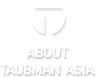
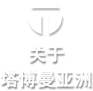
initial chinese version

diff --git a/src/js/view/main-view/info-module/InfoDetail.js b/src/js/view/main-view/info-module/InfoDetail.js
@@ -8,56 +8,56 @@ var InfoDetail = module.exports = React.createClass({
 
             <div className = "contentPages">
                 <div className="content opening" id="detailContent0">
-                    <h1 className="title">China set to become{n}the world's number 1{n}retail market by 2018</h1>
+                    <h1 className="title">到2018年，{n}中国势必成为世界第一{n}大零售市场</h1>
                     <img src="./build/images/content-opening-inline.png" />
-                    <p>This infographic highlights the sheer size and potential of China's retail market. It focuses on changing demographics and rising spending power, as well as the growth in online commerce and lightspeed development of new malls. Dive into the key facts and figures on the world’s hottest retail market.</p>
-                    <p>CLICK on each of the icons on the map to explore the key market drivers in depth.</p>
+                    <p>左边的信息图表突显了中国零售市场的庞大规模和潜力。它主要显示不断变化的人口特征和日益上升的消费能力，以及网络商务的增长和新购物中心的急速发展。审视这一世界上最炙手可热的零售市场的重要事实和数据。</p>
+                    <p>点击地图上的各个信息图，深入探讨主要的市场推动因素。</p>
                 </div>
 
                 <div className="content retail" id="detailContent1">
-                    <h1 className="title">Retail Industry</h1>
+                    <h1 className="title">零售业</h1>
                     <hr></hr>
                     <div className="box">
-                        <h3>World's Retail Leader by 2018</h3>
-                        <p>In 2013, China surpassed Japan to become the world's second largest consumer market. It is expected to take the top spot as the world's largest retail market by 2018, according to PWC. Retail sales volume growth will hit 7.9% by 2018, compared with 2.6% for North America and the global average of 3.4%.  </p>
+                        <h3>2018年世界零售业翘楚</h3>
+                        <p>2013年，中国超越日本，成为世界第二大零售市场，普华永道(PWC)认为，到2018年，中国料将成为世界最大零售市场。到2018年，中国的零售增长率将高达7.9%，而北美则为2.6%，全球平均值为3.4%。</p>
                     </div>
                     <div className="box">
-                        <h3>China: the Top Retail Investment Destination</h3>
-                        <p>AT Kearney has ranked China first in the Global Retail Development Index (GRDI) for the first time since 2010. China's retail market is expected to grow to RMB 51.2 trillion by 2022 — double the size of the US market. The index ranks markets for retail investment potential.</p>
+                        <h3>中国：首要零售投资目的地</h3>
+                        <p>自2010年以来，科尔尼(AT Kearney)首次将中国排在“全球零售发展指数(GRDI)”榜单第一位。到2022年，中国的零售市场预计将增至51.2万亿人民币，是美国市场规模的两倍。该指数排出各市场在零售投资潜力上的名次。</p>
                     </div>
                     <div className="box">
-                        <h3>2015 Global retail development index ranking</h3>
+                        <h3>2015年全球零售发展指数排名</h3>
                         <img src="./build/images/content-retail-inline.png" />
                     </div>
                 </div>
 
                 <div className="content demographics" id="detailContent2">
-                    <h1 className="title">Demographics and Economy</h1>
+                    <h1 className="title">人口特征与经济</h1>
                     <hr></hr>
                     <div className="box">
-                        <h3>Spending below world levels</h3>
-                        <p>China’s consumption levels remain well behind those of other advanced economies, at just 36% of GDP as of 2013. According to McKinsey, by 2020 this figure is set to reach 50%. By comparison, consumer spending accounted for 68% of GDP in the US in 2013 and 61% in Japan.</p>
+                        <h3>消费低于世界水平</h3>
+                        <p>中国的消费水平远远落后于其他先进经济体，截至2013年，消费仅占国内生产总值(GDP)的36%。麦肯锡(McKinsey)认为，到2020年，这一数字势必会达到50%。相比之下，2013年，美国的消费性开支占到GDP的68%，日本占到61%。</p>
                     </div>
                     <div className="box">
-                        <h3>China's Middle Class Boom</h3>
-                        <p>In 2002, a mere 4% of China's mainland urban residents were identified as middle class. By 2022, that figure will rise to 78%. Growth in private consumption will come from a big shift from mass middle class to upper middle class, according to McKinsey.</p>
+                        <h3>中国中产阶级迅速崛起</h3>
+                        <p>2002年，仅有4%的中国大陆城镇居民被归入中产阶级。到2022年，这一数字将上升至78%。麦肯锡认为，私人消费的增长将发生一次大转移，从普通中产阶级转向上层中产阶级。</p>
                     </div>
                     <div className="box">
-                        <h3>China’s Wealth Distribution</h3>
+                        <h3>中国的财富分布</h3>
                         <img src="./build/images/content-demographics-inline.png" />
                     </div>
                 </div>
 
                 <div className="content ecommerce" id="detailContent3">
-                    <h1 className="title">E-Commerce</h1>
+                    <h1 className="title">电子商务</h1>
                     <hr></hr>
                     <div className="box">
-                        <h3>ONLINE RETAIL BOOM</h3>
-                        <p>China's e-commerce industry is already the largest in the world, according to Forrester research. Estimates for China’s online sales in 2014 have totaled RMB 2.8 trillion, while total for the US in 2014 is estimated at USD 304 billion (RMB 1.9 trillion). The question is how this e-commerce explosion will threaten or supplement traditional retail.</p>
+                        <h3>网络零售方兴未艾</h3>
+                        <p>根据弗雷斯特研究公司(Forrester Research)的数据，中国电子商务行业已在世界上占据首位。在2014年，中国的网络销售总额估计达到2.8万亿人民币，而美国则为3040亿美元（1.9万亿人民币）。问题在于，电子商务的这种爆炸式迅猛发展会对传统零售业构成什么样的威胁，还是会提供什么样的补足。</p>
                     </div>
                     <div className="box">
-                        <h3>M-Commerce Emerges as a{n}Growing Trend</h3>
-                        <p>According to iResearch, experts predict that by 2018, 62% of online purchases in China will be made on mobile devices. An emphasis on innovation has allowed mainland e-commerce giants to grow their mobile sales at a rate that surpasses their US counterparts, such as Amazon.</p>
+                        <h3>移动电子商务日益成为潮流</h3>
+                        <p>根据艾瑞咨询集团(iResearch)的报告，专家预测，到2018年，中国62%的网络购物将在移动设备上进行。这显示，创新推动了国内电子商务巨头在移动销售上的发展速度，远超亚马逊等美国同行。</p>
                     </div>
                     <div className="box">
                         <h3><img src="./build/images/flag.png"/>China’s online shoppers in context</h3>
@@ -67,18 +67,18 @@ var InfoDetail = module.exports = React.createClass({
 
 
                 <div className="content malls" id="detailContent4">
-                    <h1 className="title">Shopping Malls</h1>
+                    <h1 className="title">购物中心 </h1>
                     <hr></hr>
                     <div className="box">
-                        <h3>Chinese Malls Continue to Grow</h3>
-                        <p>As China's retail consumption has continued to grow, so too have the number of malls in its cities. In the last four years, the number of malls in China has jumped by more than 40%, according to Deloitte.</p>
+                        <h3>中国购物中心继续增长</h3>
+                        <p>随着中国的零售消费持续增长，中国各地城市的购物中心数量也随之增长。根据德勤(Deloitte)的报告，过去四年，中国的购物中心数量已经猛增40%以上。</p>
                     </div>
                     <div className="box">
-                        <h3>China: The Home of New Malls</h3>
-                        <p>The country is home to eight out of the top 10 cities for mall space under construction. The total number of new malls is projected to increase to 4,000 by the end of 2015, according to the China Chain Store Association and professional services firm Deloitte.</p>
+                        <h3>中国：新购物中心的家园</h3>
+                        <p>在全球兴建购物中心面积最多的十大城市中，中国就占了八个。根据中国连锁经营协会和专业服务公司德勤的数据，到2015年末，新购物中心的总数预计将增至4,000家。</p>
                     </div>
                     <div className="box">
-                        <h3>TOP 10 global cities in shopping-center space under construction </h3>
+                        <h3>兴建购物中心面积最多的十大城市</h3>
                         <img src="./build/images/content-mall-inline.png" />
                     </div>
                 </div>

diff --git a/src/js/view/main-view/info-module/InfoButton.js b/src/js/view/main-view/info-module/InfoButton.js
@@ -52,17 +52,17 @@ var InfoButton= module.exports = React.createClass({
                     <div className = "buttonTop">
                         <div className = "center"></div>
                         <img id="button1_img" src="./build/images/buttonicon1.png" />
-                        <span className = "buttonTitle">Retail Industry</span>
+                        <span className = "buttonTitle">零售业</span>
                     </div>
                     <div className = "buttonLine"></div>
                     <div className = "buttonContent">
                         <div className = "center"></div>
-                        <span className = "buttonText"><span className = "boldText">Number 1 tomorrow? {n}</span>China's retail sales were RMB 26 trillion in 2014, second only to the US</span>
+                        <span className = "buttonText"><span className = "boldText">未来最大的市场？{n}</span>中国2014年的零售额为26万亿人民币，位居世界第二，仅次于美国。</span>
                     </div>
                     <div className = "buttonDetail" id="buttonDetail1" onClick={this.handleSubmit.bind(null,1)}>
                         <div className= "buttonDetailContainer">
                             <span className = "center"></span>
-                            <span className="buttonDetailText">more details</span>
+                            <span className="buttonDetailText">更多详情</span>
                         </div>
                     </div>
                 </div>
@@ -72,17 +72,17 @@ var InfoButton= module.exports = React.createClass({
                     <div className = "buttonTop">
                         <div className = "center"></div>
                         <img src="./build/images/buttonicon2.png" />
-                        <span className = "buttonTitle">Demographics {n}and Economy</span>
+                        <span className = "buttonTitle">人口特征与经济</span>
                     </div>
                     <div className = "buttonLine"></div>
                     <div className = "buttonContent">
                         <div className = "center"></div>
-                        <span className = "buttonText"><span className = "boldText">22%:</span> Projected annual spending surge{n}by upper middle class from 2012 to 2022  </span>
+                        <span className = "buttonText">预计2012年至2022年期间，上层中产阶级的年消费将猛增<span className = "boldText">22%:</span></span>
                     </div>
                     <div className = "buttonDetail" id="buttonDetail2" onClick={this.handleSubmit.bind(null,2)}>
                         <div className= "buttonDetailContainer">
                             <span className = "center"></span>
-                            <span className="buttonDetailText">more details</span>
+                            <span className="buttonDetailText">更多详情</span>
                         </div>
                     </div>
                 </div>
@@ -92,17 +92,17 @@ var InfoButton= module.exports = React.createClass({
                     <div className = "buttonTop">
                         <div className = "center"></div>
                         <img src="./build/images/buttonicon3.png" />
-                        <span className = "buttonTitle">E-Commerce</span>
+                        <span className = "buttonTitle">电子商务方兴未艾</span>
                     </div>
                     <div className = "buttonLine"></div>
                     <div className = "buttonContent">
                         <div className = "center"></div>
-                        <span className = "buttonText"><span className = "boldText">RMB 6.4 trillion:</span> Predicted value of{n}China's e-commerce sector by 2019 </span>
+                        <span className = "buttonText"><span className = "boldText">预计到2019年，</span> 中国电子商务产业总值将达到6.4万亿人民币</span>
                     </div>
                     <div className = "buttonDetail" id="buttonDetail3" onClick={this.handleSubmit.bind(null,3)}>
                         <div className= "buttonDetailContainer">
                             <span className = "center"></span>
-                            <span className="buttonDetailText">more details</span>
+                            <span className="buttonDetailText">更多详情</span>
                         </div>
                     </div>
                 </div>
@@ -112,17 +112,17 @@ var InfoButton= module.exports = React.createClass({
                     <div className = "buttonTop">
                         <div className = "center"></div>
                         <img src="./build/images/buttonicon4.png" />
-                        <span className = "buttonTitle">Shopping Malls</span>
+                        <span className = "buttonTitle">购物中心</span>
                     </div>
                     <div className = "buttonLine"></div>
                     <div className = "buttonContent">
                         <div className = "center"></div>
-                        <span className = "buttonText"><span className = "boldText">44%</span> of all global shopping market{n}completions in 2014 were in China </span>
+                        <span className = "buttonText">在2014年建成的全球购物商场中，有<span className = "boldText">44%</span>位于中国</span>
                     </div>
                     <div className = "buttonDetail" id="buttonDetail4" onClick={this.handleSubmit.bind(null,4)}>
                         <div className= "buttonDetailContainer">
                             <span className = "center"></span>
-                            <span className="buttonDetailText">more details</span>
+                            <span className="buttonDetailText">更多详情</span>
                         </div>
                     </div>
                 </div>

diff --git a/src/js/view/main-view/panel-module/panel-info/PanelInfo.js b/src/js/view/main-view/panel-module/panel-info/PanelInfo.js
@@ -32,34 +32,31 @@ var PanelInfo = module.exports = React.createClass({
         return <div className="info">
             <div className="left">
                 <div  className = "info1" >
-                    <h1>China sets pace in{n}mobile payments </h1>
-                    <h3>While PayPal has been around much longer and Apple Pay garners more headlines, the biggest players in mobile payments are in China. Alibaba and Tencent are the dominant providers and the numbers from China today far exceed the US, according to figures from iResearch and Forrester.</h3>
+                    <h1>中国领跑移动支付</h1>
+                    <h3>虽然PayPal问世更早，Apple Pay登上新闻头条的次数更多，但最大的移动支付公司却是在中国。艾瑞咨询(iResearch)和弗雷斯特研究公司(Forrester)的数据表明，阿里巴巴和腾讯是占主导地位的移动支付提供商，中国现在的交易额远超美国。</h3>
                     <div id ="middle"><img src="./build/images/panelinfo.png"/></div>
 
-                    <h2>Drivers for China’s surge:</h2>
+                    <h2>中国移动支付迅猛发展的动力</h2>
                     <ul>
-                        <li><img id="panelicon1" src="./build/images/panelicon1.png" /> <p>China: 1.5 billion mobile phone users in 2014 vs{n}
-                            US: 250 million in 2014</p></li>
-                        <li><img id="panelicon2" src="./build/images/panelinfo2.png" /> <p>Only 10% in China have credit cards vs 70% in the US.{n}
-                            Consumers seek other payment methods to enable{n}
-                            mobile commerce</p></li>
+                        <li><img id="panelicon1" src="./build/images/panelicon1.png" /> <p>中国：2014年手机用户为15亿，而美国：2014年手机用户为2.5亿</p></li>
+                        <li><img id="panelicon2" src="./build/images/panelinfo2.png" /> <p>在中国，拥有信用卡的人仅占10%，美国则占70%。中国消费者依赖其他支付方式来推动移动电子商务</p></li>
                     </ul>
                     <div className="goAliBtn" onClick={this.handleSubmit}><img src="./build/images/goalibtn.png" /></div>
                 </div>
 
                 <div className = "info2">
-                    <h1>Alipay  vs  Tenpay{n}vs  PayPal</h1>
-                    <h2>CHINA'S LEADERS FORGING AHEAD </h2>
-                    <h3>A quick look at the transaction numbers show that despite a much shorter history, providers like Alipay have left PayPal behind in terms of numbers. </h3>
+                    <h1>支付宝、财付通、PayPal对比</h1>
+                    <h2>中国的业内翘楚稳步前进</h2>
+                    <h3>快速浏览一下交易数字就会发现，尽管阿里巴巴等移动支付提供商问世比PayPal晚很多，但在交易额上却已把PayPal远远甩在后面。</h3>
                     <img className = "gLine" src="./build/images/schart.png" />
-                    <h2>BIGGER AND BROADER ECO-SYSTEM </h2>
-                    <h3>While PayPal has remained focused mainly on core e-commerce transactions, it is arguably behind the curve in pushing out the possibilities of new ways of using mobile payments. Alipay and Tenpay have reached far beyond traditional commerce and are more deeply embedded in consumers’ lifestyles with more features and services available through their platforms and wider eco-systems. </h3>
+                    <h2>生态系统更大更广</h2>
+                    <h3>尽管PayPal一直以核心电子商务交易为主营业务，但在推出移动支付的新使用方式上却可以说是滞后的。支付宝和财付通远远超出了传统商务的范畴，更深入地根植于消费者的生活方式，通过其平台和更广泛的生态系统提供更多功能和服务。</h3>
                 </div>
             </div>
 
             <div className = "right">
                 <div  className = "info1" >
-                    <h1>china third-party mobile payments gmv 2009 - 2018{n} (RMB billions) </h1>
+                    <h1>2009年至2018年中国第三方移动支付成交金额（单位：十亿人民币）</h1>
                     <div className = "gLine"><img className = "gLineImg" src="./build/images/gline.png" /></div>
                     <img className = "chart" src="./build/images/chart.png" />
                 </div>

diff --git a/index.html b/index.html
@@ -138,14 +138,14 @@
                 <div class="content">
                     <span class="center"></span>
                     <span id="icon1" class="icons"></span>
-                    <span class="titles">CHINA RETAIL<br>BY THE NUMBERS</span>
+                    <span class="titles">“数”说中国零售</span>
                 </div>
             </li>
             <li class="menu" id="menu2">
                 <div class="content">
                     <span class="center"></span>
                     <span id="icon2" class="icons"></span>
-                    <span class="titles">Brand<br>Bonding</span>
+                    <span class="titles">品牌构建</span>
                 </div>
             </li>
             <li class="menu" id="menu3">
@@ -153,7 +153,7 @@
                     <div class="menuContents">
                         <span class="center"></span>
                         <span id="icon3" class="icons"></span>
-                        <span class="titles">Digitally-Enabled<br>Strategies</span>
+                        <span class="titles">数字化策略</span>
                     </div>
                 </div>
             </li>
@@ -161,14 +161,14 @@
                 <div class="content">
                     <span class="center"></span>
                     <span id="icon4" class="icons"></span>
-                    <span class="titles">Mobile<br>Reality</span>
+                    <span class="titles">移动电子商务现状</span>
                 </div>
             </li>
             <li class="menu" id="menu5">
                 <div class="content">
                     <span class="center"></span>
                     <span id="icon5" class="icons"></span>
-                    <span class="titles">Next-Generation<br>Mall Design</span>
+                    <span class="titles">下一代购物中心设计</span>
                 </div>
             </li>
         </ul>
@@ -185,7 +185,7 @@
     <div id="bottomBar">
         <div id="footer">
             <span class="center"></span>
-            <span id="copyright">© 2015 THE TAUBMAN COMPANY LLC ALL RIGHTS RESERVED</span>
+            <span id="copyright">©2015 The Taubman Company LLC版权所有</span>
         </div>
     </div>
 
